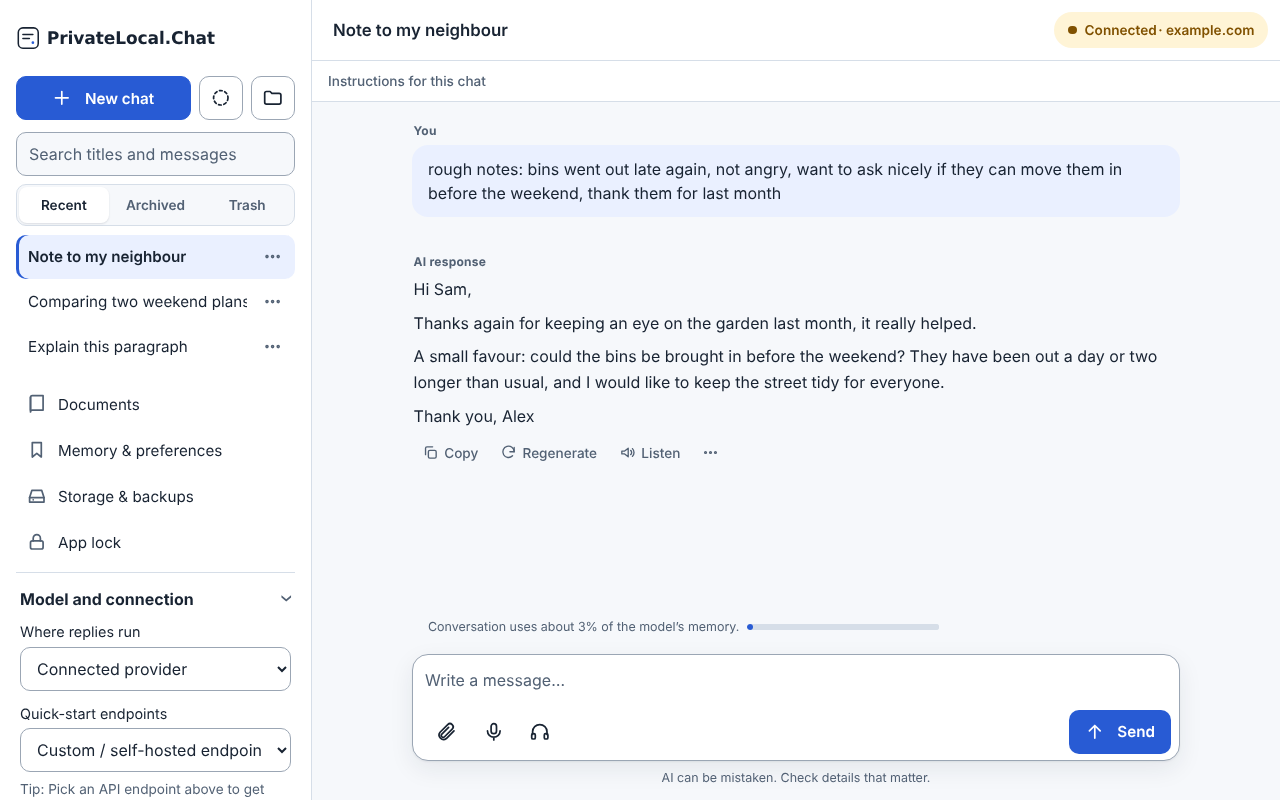
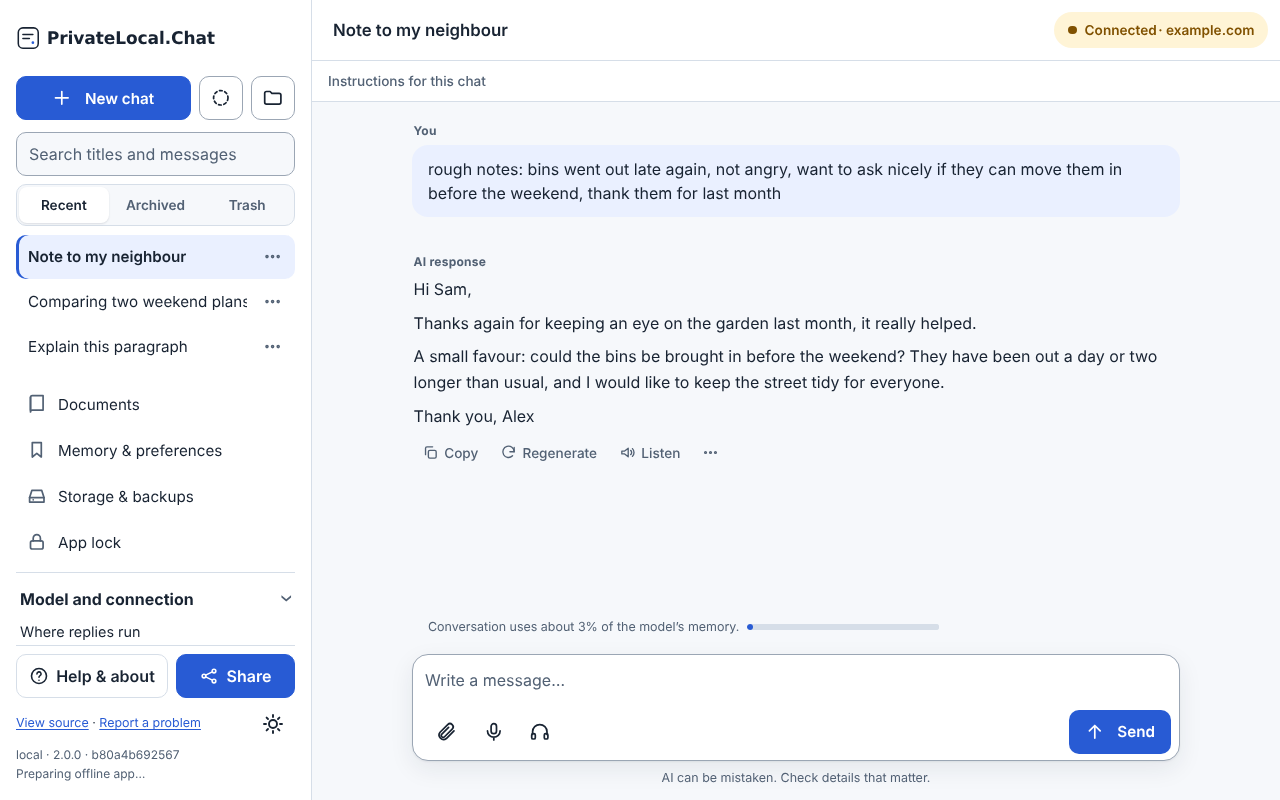
feat: publish Help, About, Privacy and Updates; release verification of public routes; release record and evidence
Help copy updated for the renamed backup and import controls; About screenshot regenerated from the final UI.

Claude-Session: https://claude.ai/code/session_01AvUxqThhpHYi7jSGHvZxub

Changed region(s): [[0.0, 0.8125, 0.25, 1.0]]

diff --git a/help/index.html b/help/index.html
@@ -276,10 +276,10 @@
 
     <section id="backup-restoration" class="card" aria-labelledby="backup-restoration-title">
       <h3 id="backup-restoration-title">Backing up and restoring conversations</h3>
-      <p><strong>Back up:</strong> <em>Storage &amp; backups</em> offers <em>Back up chats</em> (a readable file of your conversations; anyone who has the file can read it) and <em>Encrypted backup</em> (protected with a passphrase of at least 8 characters; chats, memory, projects, presets and, if you choose, documents). A forgotten passphrase cannot be recovered, and the people who run the app cannot open the file either. Backups do not carry provider settings or API tokens: use Transfer settings for those.</p>
+      <p><strong>Back up:</strong> Open <em>Transfer chats and backups</em> (under <em>Import export and transfer</em>, or from <em>Storage &amp; backups</em> with <em>Back up chats</em>). <em>Export saved conversations</em> makes a readable file of your conversations; anyone who has the file can read it. <em>Create protected backup</em> makes a file protected with a password of at least 8 characters, holding chats, memory, projects, presets and, if you choose, documents. A forgotten password cannot be recovered, and the people who run the app cannot open the file either. Each review lists exactly what the file includes. Neither file carries provider settings or API tokens: use Transfer settings for those.</p>
       <p><strong>Restore:</strong></p>
       <ol>
-        <li>Choose <em>Import chat history</em> and pick the file. The app also reads ChatGPT and Claude data exports.</li>
+        <li>Choose <em>Import chats or backup</em> (under <em>Import export and transfer</em>) and pick the file. The app also reads ChatGPT and Claude data exports.</li>
         <li>For an encrypted backup, enter the passphrase and choose <em>Unlock backup</em>. &ldquo;That passphrase did not unlock the backup, or the file was changed&rdquo; means the passphrase is wrong or the file is damaged; try again exactly as you set it.</li>
         <li>Review the preview. <em>Add to my current chats</em> (merge) is selected first and changes nothing already there. <em>Replace all my current chats</em> is an explicit alternative and offers to download a backup of the current chats first.</li>
         <li>Choose <em>Import</em>. Tick <em>Also restore memory, presets, projects, preferences</em> to bring those back too.</li>

diff --git a/docs/RELEASE-RECORD-2026-11-01.md b/docs/RELEASE-RECORD-2026-11-01.md
@@ -1,0 +1,38 @@
+# Release record: sharing, settings transfer and public help (2026-11-01)
+
+Implements the "Private Local Chat Developer Instructions" brief. Source commit and deployment version are recorded in `/version.json` of the deployed site (and in the sidebar's release line).
+
+## What shipped
+
+* **Share** (public address only), **Transfer settings** (versioned link/QR/file, optional password-protected API token) and **Transfer chats and backups** as three separate flows with their own dialogs, scope text, icons and affirmative actions. `docs/SHARING-AND-TRANSFER.md`.
+* Persistent **Help & about / Share** utility row in the sidebar and the mobile drawer; Help & about opens a compact sheet of public pages in new tabs.
+* Public pages **/help/**, **/about/**, **/privacy/**, **/updates/** (+ `/updates/rss.xml`), `sitemap.xml`, `robots.txt`, root canonical, Open Graph and Twitter metadata, WebApplication JSON-LD; offline caching of the pages. `docs/PUBLIC-SITE.md`.
+* Saved API tokens are now keyed by the full endpoint (path and query); requests only use the token saved for their exact destination.
+
+## Tests
+
+`npm test` (205 tests, including `tests/settings-transfer.test.mjs` and `tests/public-site.test.mjs`) and every browser suite through `node tests/e2e/<name>.e2e.mjs`: assistant, chat-core, cpu, device, docs, firstrun, fresh, mobile, organize, public-pages, sharing, smoke, voice. New: `tests/e2e/sharing.e2e.mjs`, `tests/e2e/public-pages.e2e.mjs`. `scripts/verify-release.mjs` now also checks the public routes, feed, sitemap and robots after deploy.
+
+## Screenshots of the three flows, both themes
+
+`docs/evidence/sharing-2026-11-01/` holds Share, Transfer settings and Transfer chats and backups for desktop and phone, light and dark (synthetic endpoint, model and token). `brand/screenshot-demo-1.png` is the About-page screenshot (synthetic conversation).
+
+## Verified facts (from the repository and GitHub)
+
+* Hosting: Cloudflare Pages `privatelocalchat` (main, `privatelocal.chat`) and `privatelocalchat-dev` (dev); models from R2 `privatelocalchat-assets` at `assets.privatelocal.chat`.
+* The repository is public, owned by the JournalFoundation organization, licensed Apache-2.0; GitHub Discussions is **not** enabled.
+* No analytics, tracking or cookies in app code; the app requests only its own files, `version.json`, model files from `assets.privatelocal.chat` and the chosen provider.
+
+## Not done or not verifiable from here (needs the owner)
+
+These are recorded as unset in `site-config.json` and the pages omit what depends on them rather than inventing it.
+
+* **Support address and owner** (verified, monitored inbox): unset. The Help email action stays hidden until `supportEmail` is set.
+* **GitHub Discussions** (categories Questions, Tips and uses, Ideas, Announcements; owner; welcome and starter posts): not created. The Community link and section appear when `discussionsUrl` is set.
+* **Hosting log and retention facts**: not verified; Privacy states none and links the provider's policy. Check the Pages project and the R2 domain in the Cloudflare dashboard, then set `hostingLogs`.
+* **robots.txt**: the live edge policy and content signals could not be read from the build environment. The generated file is the plain allow-all plus the sitemap line; reconcile it with the live file.
+* **`privatelocalchat.com` redirects**: a Cloudflare rule outside this repo (recorded as 301 with path and query preserved on 2026-10-29 in `docs/evidence/hosting-and-releases.json`); not re-checked.
+* **Search Console** property and URL inspection; **social-preview checks** in representative services (record title, description, image and crop).
+* **Physical-device QR scan and a real native-share check**, enlarged text and the on-screen keyboard on a phone.
+* **Demonstration video** and its captions/tested device-browser-model combination: not recorded; nothing on the site claims one exists. The Updates entry shows the release as "the next published release" until a tag exists.
+* Ratings or reviews: none published, none claimed.
